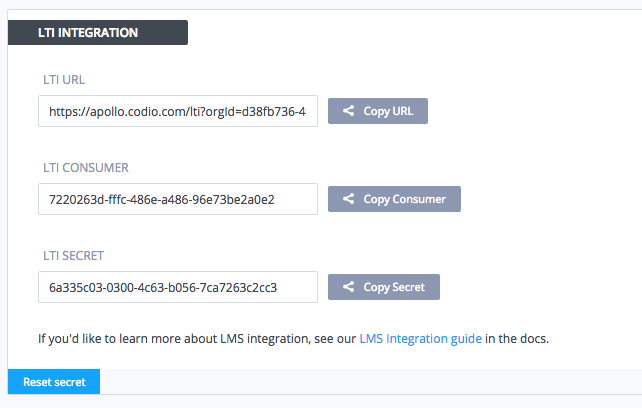
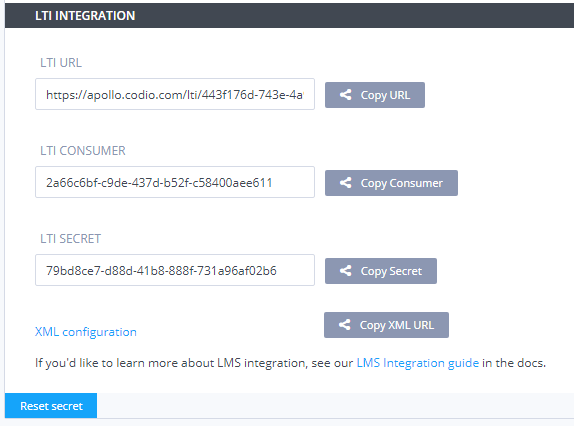
changelog #9694

Changed region(s): [[0.0, 0.0, 1.0, 1.0], [0.0592, 0.5294, 0.7997, 0.7941], [0.0592, 0.3235, 0.7997, 0.5294]]

diff --git a/source/docs/classes/lti/ltiapp.html.md b/source/docs/classes/lti/ltiapp.html.md
@@ -1,0 +1,78 @@
+---
+title: "Codio LTI App"
+class_name: docs
+full_width: true
+---
+
+The **Codio LTI app** allows an easy way to integrate Codio with supported LMS systems.
+
+Please note these steps and images are based on Canvas but other LMS systems will be similar
+
+## Preparation
+The following steps need to be taken only one time per class.
+
+### In Codio
+
+- Go to your organization account settings by clicking on your user name in the bottom left of your dashboard and then selecting your organization within **My Organizations**.
+- Select the **Organization Settings** near the top of the page.
+- Scroll down to the **LTI Integration** section. You should see the following fields. Remain on this screen for the time being.
+
+<img alt="LTI Fields" src="/img/docs/lti/lti-org-fields.png" class="simple"/>
+
+### In Canvas
+The Canvas user who carries out these steps must be a system administrator.
+
+- Create a new Course in your LMS system. We suggest you create a test course called **Codio Test Course** before you do it with a production course.
+- Select the Course.
+- Click on **Settings** in the left set of options.
+- In the top links, select **Apps**.
+- Click the large button **View App Configurations**.
+- Click on the **View App Center** button.
+
+<img alt="appcenter" src="/img/docs/lti/appcenter.png" class="simple"/>
+
+- Navigate (or filter) to find the **Codio** app, select and **+ Add App**
+
+### In Codio and Canvas
+We will now copy the following global integration fields from Codio to Canvas.
+
+- LTI Consumer -> Consumer Key
+- LTI Secret -> Shared Secret
+
+and select the **Add App** button to confirm.
+You should then have something similar to this:
+
+<img alt="appconfigured" src="/img/docs/lti/appsetup.png" class="simple"/>
+
+
+
+### Class URL
+
+The **Class URL** is used to map an LMS course to a Codio class. It ensures that Codio knows how to redirect students back to the correct course should they attempt to access the class through the Codio dashboard.
+
+The LMS user who carries out these steps does not need to be a system administrator but must have suitable privileges to edit courses and assignments.
+
+- In Codio, go to the **Admin** tab near the top.
+- Select **Edit Details** in the bottom of the page.
+- Near the bottom is a switch **Enable LTI** which you should enable.
+- Below this is an empty field **Class LMS URL**. Switch back to your LMS and make sure you are on the Home page of the course. Copy the url in the address bar of your browser to the clipboard and paste it into the above mentioned field in Codio.
+
+<img alt="lti-class-url" src="/img/docs/lti/lti-class-url.png" class="simple"/>
+
+### Mapping Codio units to Canvas unit/assignment
+The **Unit URL** is where you map each individual Unit within your Codio Class to the corresponding unit/assignment in your LMS.  
+
+Where you have enabled the Codio LTI App in your LMS system, you can easily integrate units from your Codio class.
+
+- Go to your Canvas Course and to **Pages** to add a new page,
+- Click the Codio icon that will be available
+
+<img alt="codioicon" src="/img/docs/lti/codioicon.png" class="simple"/>
+
+- A list of the Codio class contents will be shown, simply select the unit(s) you wish to add to Canvas and Save
+
+<img alt="classunits" src="/img/docs/lti/classunits.png" class="simple"/>
+
+The assignment(s) and course will need to be published before students will be able to access them 
+
+For other methods to integrate Codio with LMS systems, check out the pages that follow

diff --git a/source/docs/classes/lti/canvas.html.md b/source/docs/classes/lti/canvas.html.md
@@ -4,6 +4,8 @@ class_name: docs
 full_width: true
 ---
 
+Please be sure to check out the [Codio LTI App](/docs/classes/lti/ltiapp) which allows for an easy way to integrate and to map Codio class units to your LMS system.
+
 ## Preparation
 The following steps need to be taken only one time per class.
 
@@ -16,7 +18,7 @@ The following steps need to be taken only one time per class.
 <img alt="LTI Fields" src="/img/docs/lti/lti-org-fields.png" class="simple"/>
 
 
-### In Canvas
+### In Canvas, adding Codio as an App
 The Canvas user who carries out these steps must be a system administrator.
 
 - Create a new Course in Canvas. We suggest you create a test course called **Codio Canvas** before you do it with a production course.
@@ -33,15 +35,33 @@ We will now copy the following global integration fields from Codio to Canvas.
 - LTI Secret -> Shared Secret
 - LTI URL -> Launch URL
 
-In Canvas you should then 
+In Canvas you should then use one of the following steps 
 
+#### Manual Entry
 - Enter a suitable name (Codio Canvas LTI) in the **Name** field.
 - Enter **apollo.codio.com** into the **Domain** field.
 - In the **Privacy** field, select **Public**
+- Paste in the 3 Codio fields to the appropriate fields
 
 You should end up with something like this.
 
+
 <img alt="Canvas Global" src="/img/docs/lti/canvas-global.png" class="simple"/>
+
+#### By URL
+- Enter a suitable name (Codio Canvas LTI) in the **Name** field.
+- In Codio select the Copy Consumer button to copy in to the Consumer Key field.
+- select the Copy Secret Key to copy in to the Shared Secret field.
+- select the Copy XML URL to copy in the to the Config URL field.
+- and Submit
+
+#### Paste XML
+- Enter a suitable name (Codio Canvas LTI) in the **Name** field.
+- In Codio select the Copy Consumer button to copy in to the Consumer Key field.
+- select the Copy Secret Key to copy in to the Shared Secret field.
+- click on the `XML Configuration` link to open the XML and then copy in the to the XML Configuration field.
+- and Submit
+
 
 ## Codio Class setup
 You need to perform the following actions one time only for a class. The Canvas user who carries out these steps does not need to be a system administrator but must have suitable privileges to edit courses and assignments.

diff --git a/source/docs/classes/lti/keys.html.md b/source/docs/classes/lti/keys.html.md
@@ -8,7 +8,7 @@ full_width: true
 
 **Class and Unit URLs** will be copied and pasted into your LMS system, once for the LMS class/course and once for each LMS unit/assignment.
 
-We have platform specific integration documentation for the following LMS platforms. 
+We have platform specific integration documentation for the following LMS platforms, although for most LMS systems you should be able to utilise the **[Codio LTI App](/docs/classes/lti/ltiapp)**
 
 - [Canvas](/docs/classes/lti/canvas)
 - [Blackboard](/docs/classes/lti/blackboard)
@@ -41,7 +41,10 @@ The LMS user who carries out these steps does not need to be a system administra
 <img alt="lti-class-url" src="/img/docs/lti/lti-class-url.png" class="simple"/>
 
 ### Unit URL
-The **Unit URL** is where you map each individual Unit within your Codio Class to the corresponding unit/assignment in your LMS. It directs a student to the correct Codio unit and will automatically open the Codio unit.
+
+Please be sure to check out the [Codio LTI App](/docs/classes/lti/ltiapp) which allows for an easy way to integrate and to map Codio class units to your LMS system.
+
+If you are unable to utilise the Codio LTI App, the **Unit URL** is where you map each individual Unit within your Codio Class to the corresponding unit/assignment in your LMS. It directs a student to the correct Codio unit and will automatically open the Codio unit.
 
 - On the main class screen, click the icon with 3 blue dots and select **LTI Integration URL**.
 - You should copy the LTI integration url to the clipboard by clicking on the field (it will auto copy).

diff --git a/source/docs/misc/changelog.html.md b/source/docs/misc/changelog.html.md
@@ -13,6 +13,7 @@ We do not report small bug fixes or issues that affect individual users, who we 
 
 **August 2018**
 
+- `[F] [22nd]`: Added [Codio LTI App](/docs/classes/lti/ltiapp) to improve ease of integrating Codio with LMS systems
 - `[I] [16th]`: Fix issue with [Custom Buttons](/docs/content/authoring/page-edit/buttons/) incorrectly handling
 - `[F] [ 9th]`: Add ability to use current file in [debugger](/docs/ide/features/debugging#debugfilepath) targets
 - `[I] [ 7th]`: update handling of [Crunch](/docs/misc/schoolscontent/crunch/) projects

diff --git a/source/docs/classes/lti/moodle.html.md b/source/docs/classes/lti/moodle.html.md
@@ -4,6 +4,8 @@ class_name: docs
 full_width: true
 ---
 
+Please be sure to check out the [Codio LTI App](/docs/classes/lti/ltiapp) which allows for an easy way to integrate and to map Codio class units to your LMS system.
+
 ### Authentication and account creation
 Once you have configured the LTI/LMS settings, Moodle manages all aspects of signing in to Codio as well as account creation. All your teachers and students need is a Moodle account.
 

diff --git a/source/docs/classes/lti/blackboard.html.md b/source/docs/classes/lti/blackboard.html.md
@@ -4,6 +4,8 @@ class_name: docs
 full_width: true
 ---
 
+Please be sure to check out the [Codio LTI App](/docs/classes/lti/ltiapp) which allows for an easy way to integrate and to map Codio class units to your LMS system.
+
 ## Preparation
 The following steps need to be taken only one time per class.
 
